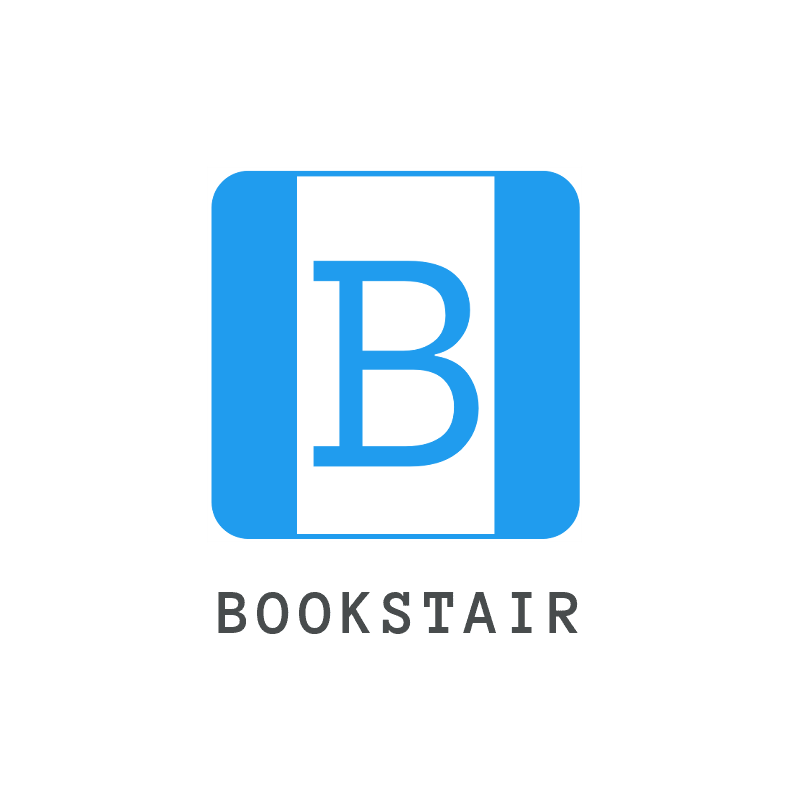
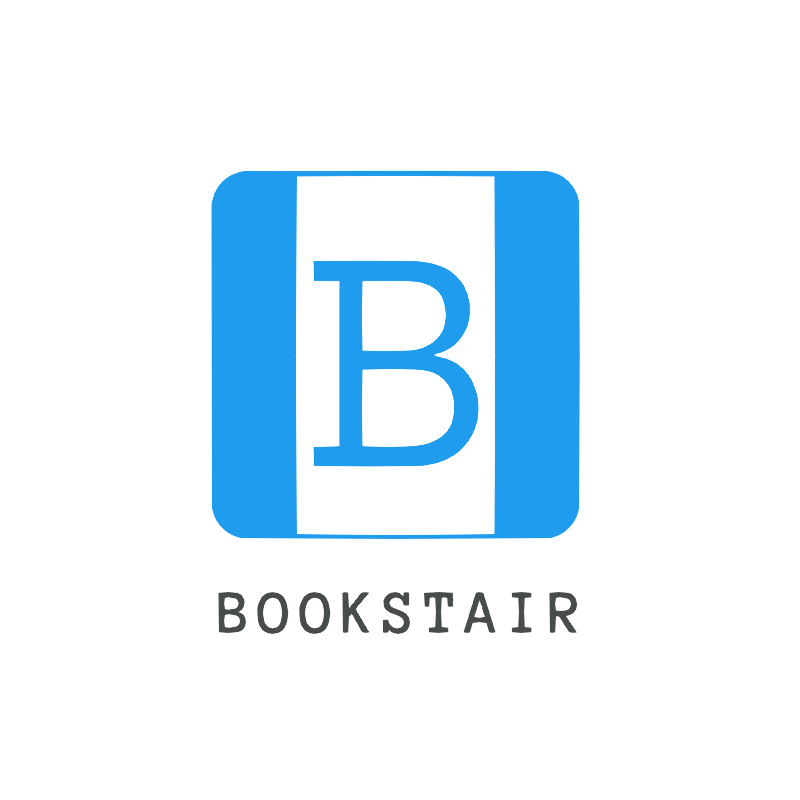
Fix: 登録/ログイン画面のロゴの修正、privacyとfooterの修正、Googleフォーム

Changed region(s): [[0.5312, 0.75, 0.5625, 0.7812]]

diff --git a/config/routes.rb b/config/routes.rb
@@ -27,7 +27,7 @@ Rails.application.routes.draw do
   
   resources :books, param: :isbn, constraints: { code: /\d+/ } do
     collection { get :search }
-    resources :bookmarks, only: %i[create destroy], shallow:true
+    resources :bookmarks, only: %i[create destroy edit], shallow:true
   end
   #   resources :bookmarks, only: %i[create destroy]
   # end
